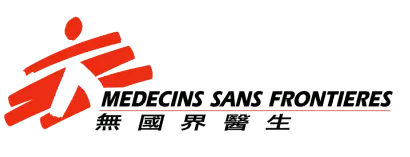
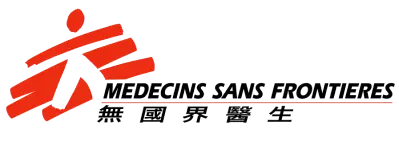
Update image funds

Changed region(s): [[0.0, 0.0567, 0.9925, 0.8794]]

diff --git a/src/js/fondsarray.js b/src/js/fondsarray.js
@@ -3,45 +3,63 @@ export const fondlist = [
     title: 'Save the Children',
     url: 'https://www.savethechildren.net/what-we-do/emergencies/ukraine-crisis',
     img: require('../images/fondsWebp/fonds-x1/1.webp'),
+    width: '149px',
+    height: '33px',
   },
   {
     title: 'Project HOPE',
     url: 'https://www.projecthope.org/country/ukraine/',
     img: require('../images/fondsWebp/fonds-x1/2.webp'),
+    width: '90px',
+    height: '45px',
   },
   {
     title: 'UNITED24',
     url: 'https://u24.gov.ua/uk',
     img: require('../images/fondsWebp/fonds-x1/3.webp'),
+    width: '149px',
+    height: '15px',
   },
   {
     title: 'International Medical Corps',
     url: 'https://internationalmedicalcorps.org/country/ukraine/',
     img: require('../images/fondsWebp/fonds-x1/4.webp'),
+    width: '129px',
+    height: '35px',
   },
   {
     title: 'Medicins Sans Frontieres',
     url: 'https://www.msf.org/ukraine',
     img: require('../images/fondsWebp/fonds-x1/5.webp'),
+    width: '133px',
+    height: '47px',
   },
   {
     title: 'RAZOM',
     url: 'https://www.razomforukraine.org/',
     img: require('../images/fondsWebp/fonds-x1/6.webp'),
+    width: '105px',
+    height: '35px',
   },
   {
     title: 'Action against hunger',
     url: 'https://www.actionagainsthunger.org/location/europe/ukraine/',
     img: require('../images/fondsWebp/fonds-x1/7.webp'),
+    width: '78px',
+    height: '49px',
   },
   {
     title: 'World vision',
     url: 'https://www.wvi.org/emergencies/ukraine',
     img: require('../images/fondsWebp/fonds-x1/8.webp'),
+    width: '81px',
+    height: '39px',
   },
   {
     title: 'Serhiy Prytula Charity Foundation',
     url: 'https://prytulafoundation.org/en',
     img: require('../images/fondsWebp/fonds-x1/9.webp'),
+    width: '117px',
+    height: '39px',
   },
 ];

diff --git a/src/js/fondsList.js b/src/js/fondsList.js
@@ -9,7 +9,9 @@ const fundsMarkup = fondlist
       <span class="fund-number">${(index + 1)
         .toString()
         .padStart(2, '0')}</span>
-        <img class="fund-image" src="${fund.img}" alt=""/>
+        <img class="fund-image" src="${fund.img}" alt="" width=${
+      fund.width
+    } heigt=${fund.height}/>
     </a>
   </li>
 

diff --git a/src/css/fondsList.css b/src/css/fondsList.css
@@ -62,7 +62,5 @@
 }
 
 .fund-image {
-  /* width: 149px; */
-  height: 32px;
   filter: brightness(0) invert(1);
 }
